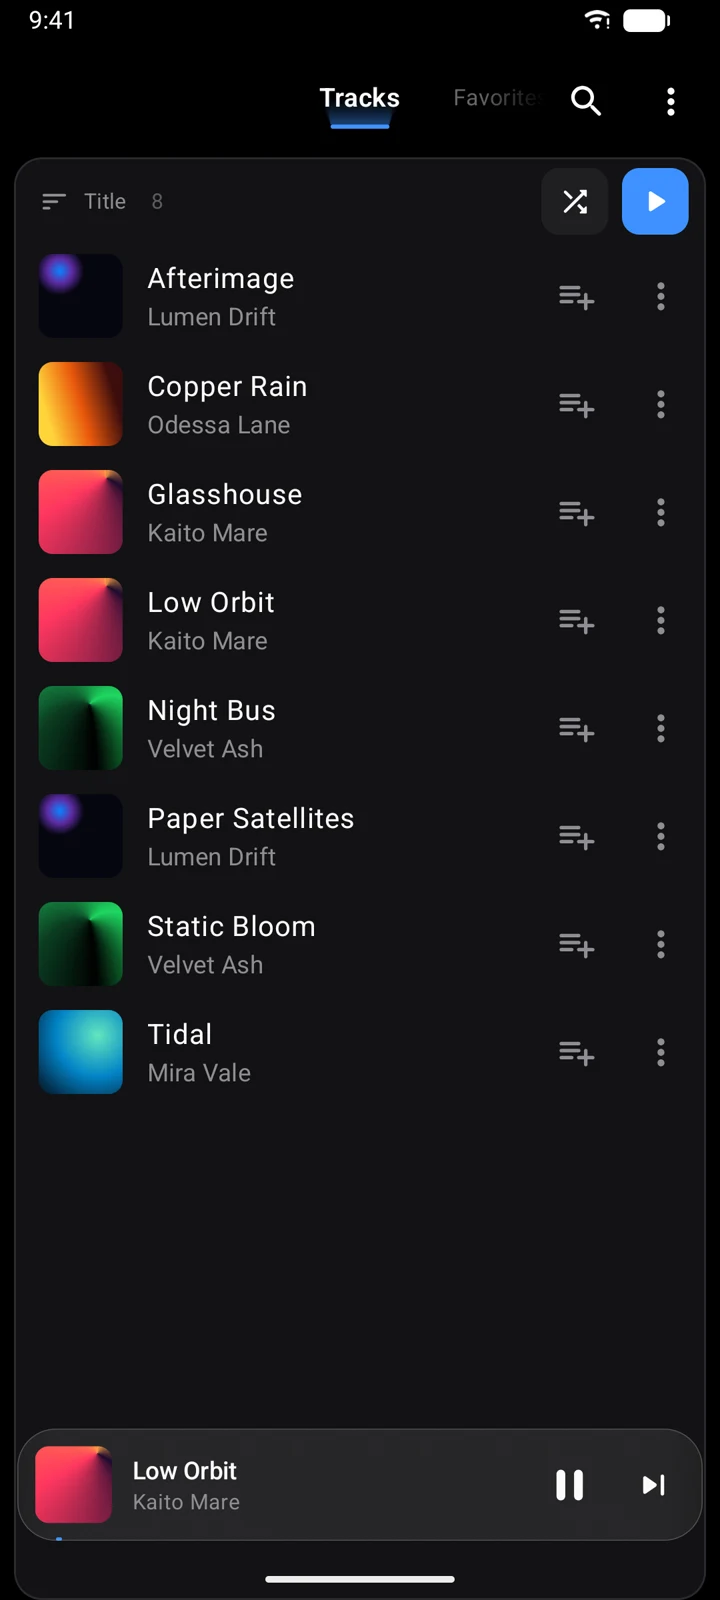
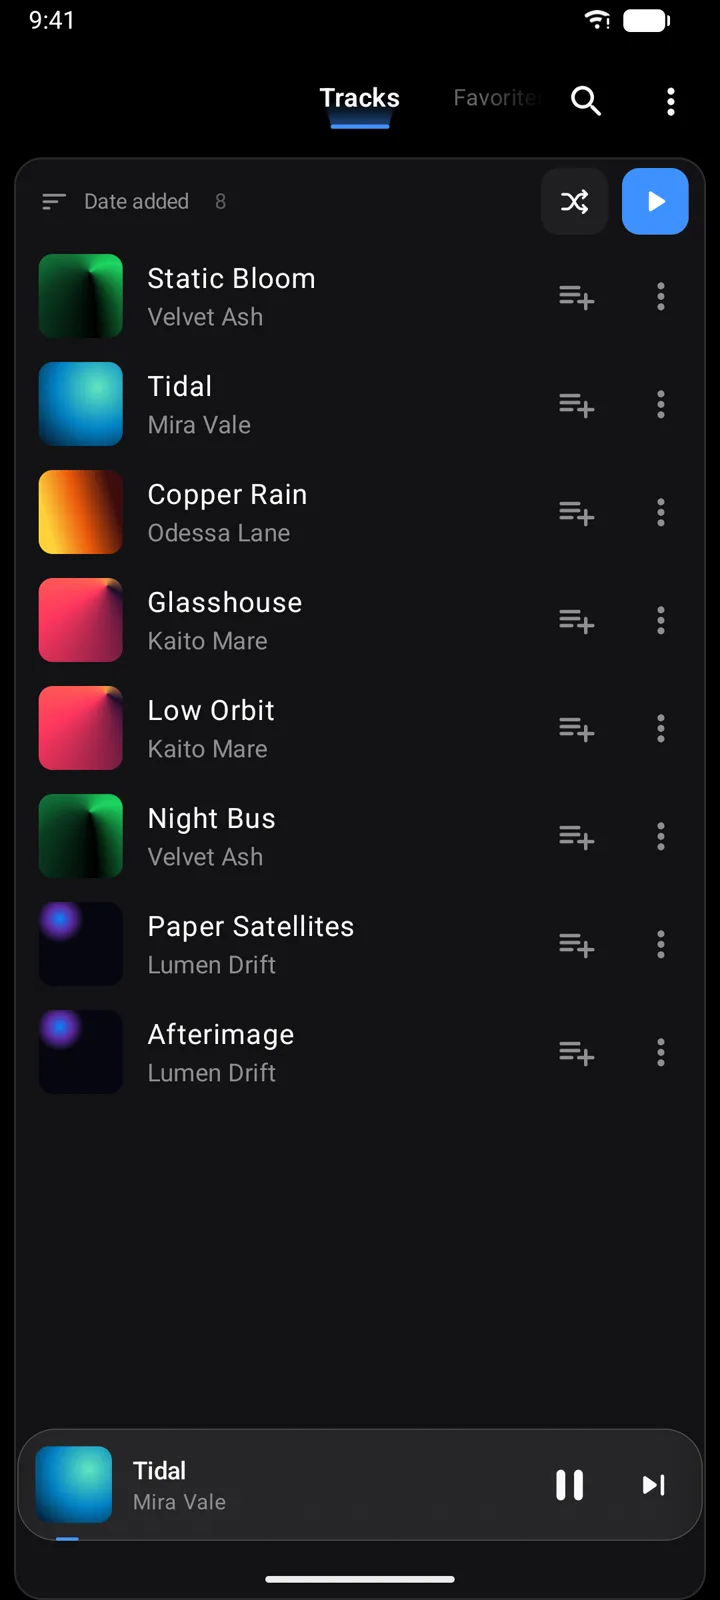
README: endless play, wallpaper preview, new screenshots

diff --git a/README.md b/README.md
@@ -21,14 +21,19 @@ screen widget, and play counts kept on the device.
 ## What it does
 
 - **Library** of tracks, albums, artists, folders, playlists, favorites, most played and recently played. Pick
-  the tabs you want, in your order, and swipe between them.
+  the tabs you want, in your order, and swipe between them. It reopens on the tab and sort order you left it on,
+  newest tracks first by default.
 - **Swipe-up player**: the glass bar at the bottom follows your finger up into the full player and back down.
   The queue opens in place of the artwork.
+- **Endless play**: when the queue runs out, more tracks from your library follow, so the music never stops on a
+  long drive. It works with shuffle too, and can be turned off.
 - **Hold gestures**: hold play to hear the track up to three more times; hold next or back to skip through it.
 - **Track menus**: a long press lifts the track and opens a quick menu; the ⋯ button opens the full one, with
   track details and a search on Google or YouTube.
 - **Pick several tracks** to play, add to a playlist, share or delete them at once.
 - **Themes**: Blue, Black, Green, White, or colors taken from your own wallpaper, with an accent color on top.
+- **Wallpaper preview**: a picked picture opens behind the real library before anything is saved. Zoom out to
+  the whole picture, fill the edges with black or a blurred copy of it, set the blur and dim, then Set or Cancel.
 - **Long-press hints**: hold any icon button to see what it does or which mode it's in.
 - **Home screen widget** with the cover, the song and play controls.
 - **Battery first**: nothing runs in the background unless music is playing, and the widget never polls.
@@ -36,13 +41,14 @@ screen widget, and play counts kept on the device.
 ## Screens
 
 <p align="center">
-  <img src="docs/screenshots/04-queue.webp" width="32%" alt="Queue inside the player" />
-  <img src="docs/screenshots/05-settings.webp" width="32%" alt="Settings" />
-  <img src="docs/screenshots/06-wallpaper.webp" width="32%" alt="Library over a wallpaper, with its colors" />
+  <img src="docs/screenshots/04-queue.webp" width="24%" alt="Queue inside the player" />
+  <img src="docs/screenshots/05-settings.webp" width="24%" alt="Settings" />
+  <img src="docs/screenshots/06-wallpaper.webp" width="24%" alt="Library over a wallpaper, with its colors" />
+  <img src="docs/screenshots/07-wallpaper-preview.webp" width="24%" alt="Wallpaper preview with blurred edges" />
 </p>
 
-<sub>Wallpaper in the last screenshot: Edward Burne-Jones, <i>The Beguiling of Merlin</i> (1874), public domain,
-via Wikimedia Commons. The tracks are generated demo files.</sub>
+<sub>Wallpaper in the last two screenshots: Edward Burne-Jones, <i>The Beguiling of Merlin</i> (1874), public
+domain, via Wikimedia Commons. The tracks are generated demo files.</sub>
 
 ---
 
@@ -58,7 +64,7 @@ app/src/main/java/com/suna/player/
 └── ui/
     ├── library/         tabs, song lists, menus, song details
     ├── player/          mini bar, full player, queue
-    ├── settings/        settings pages, wallpaper editor
+    ├── settings/        settings pages, wallpaper preview
     ├── common/          shared rows, selection, actions
     └── theme/           themes, accents, wallpaper colors
 ```
